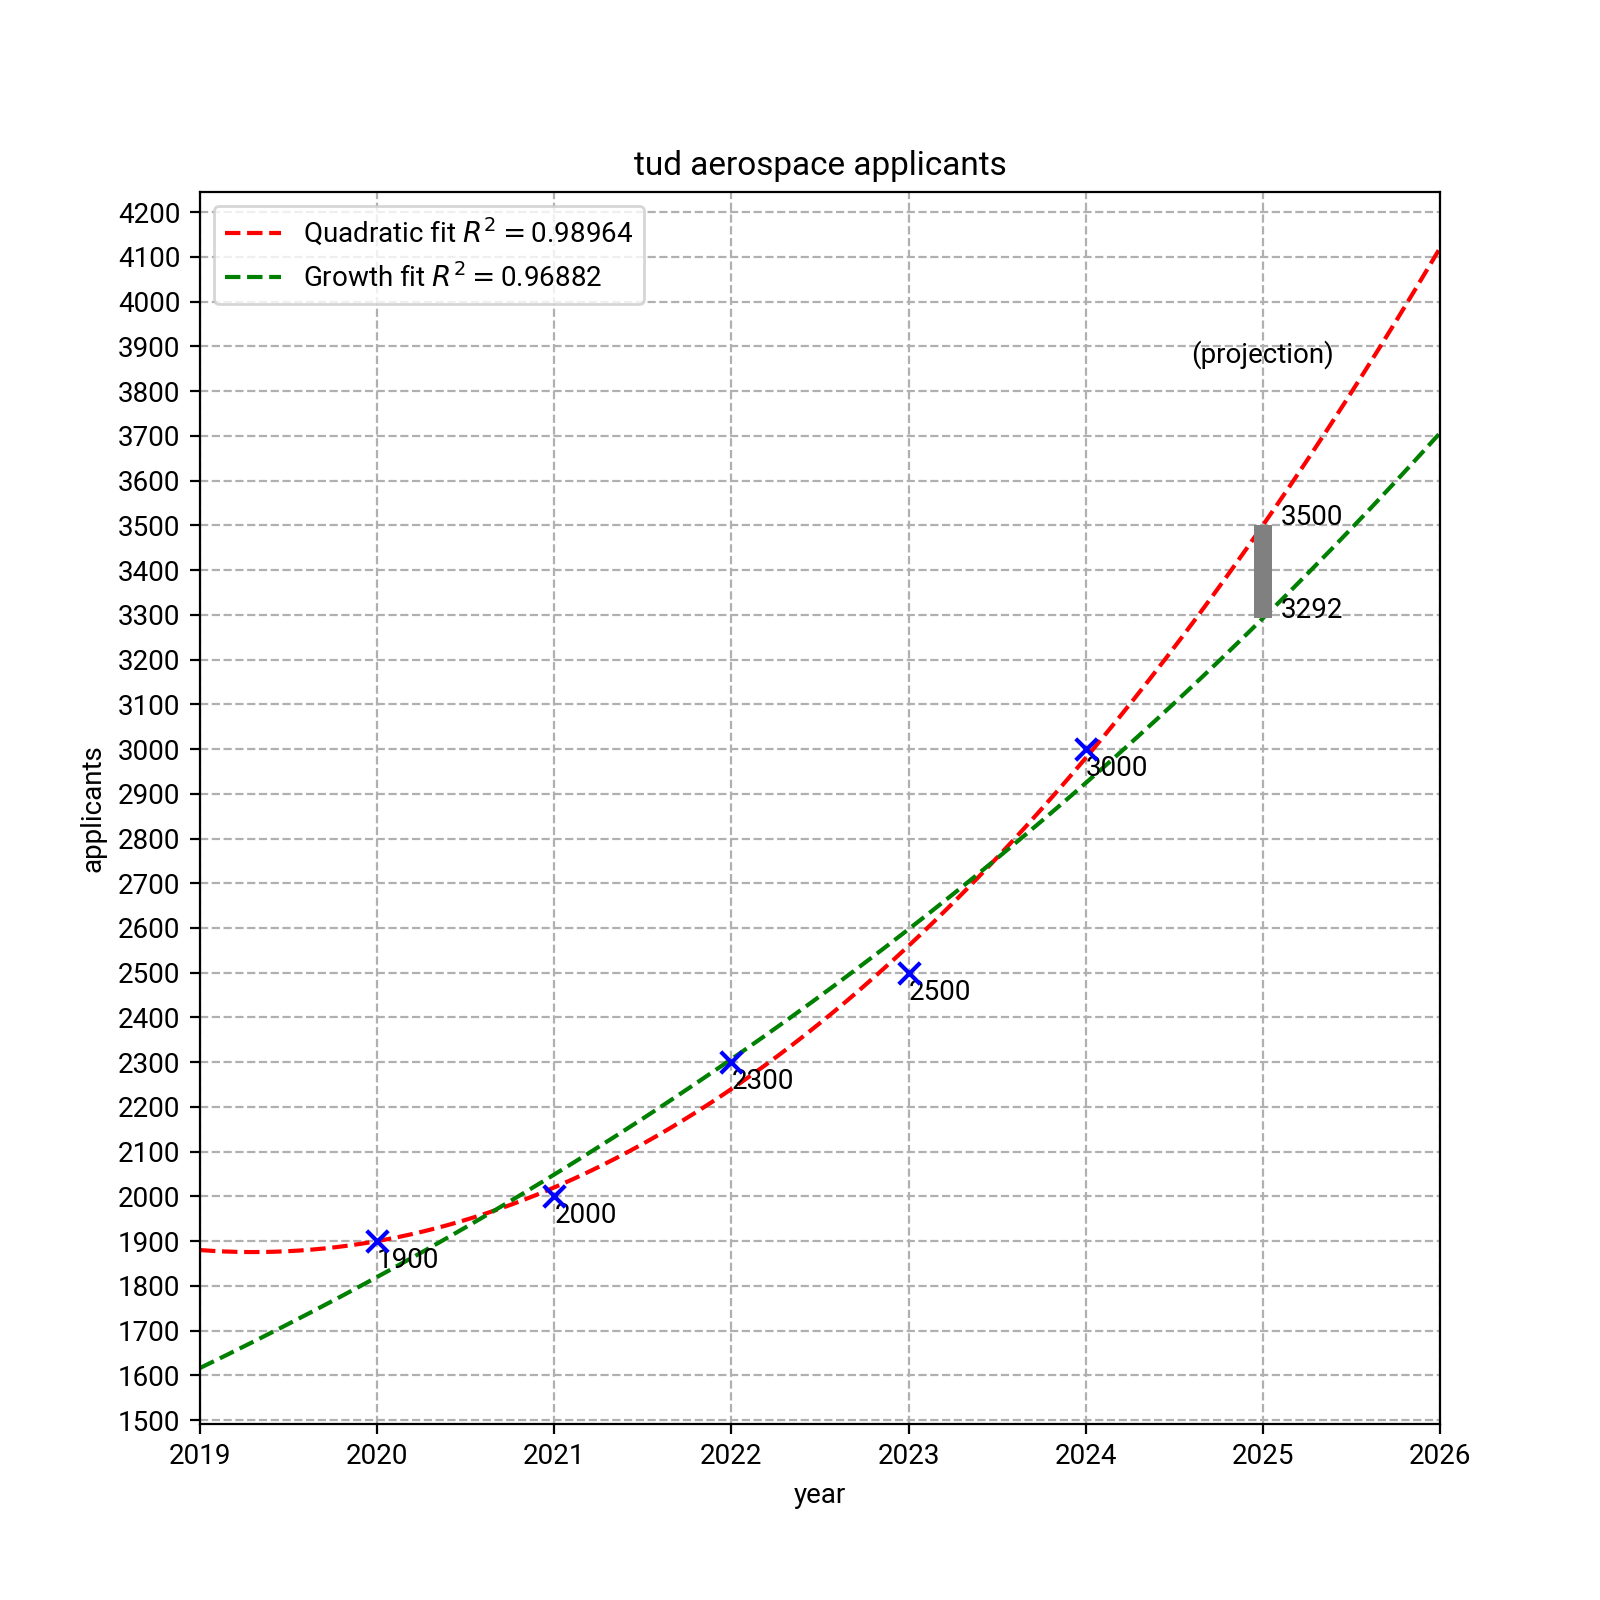
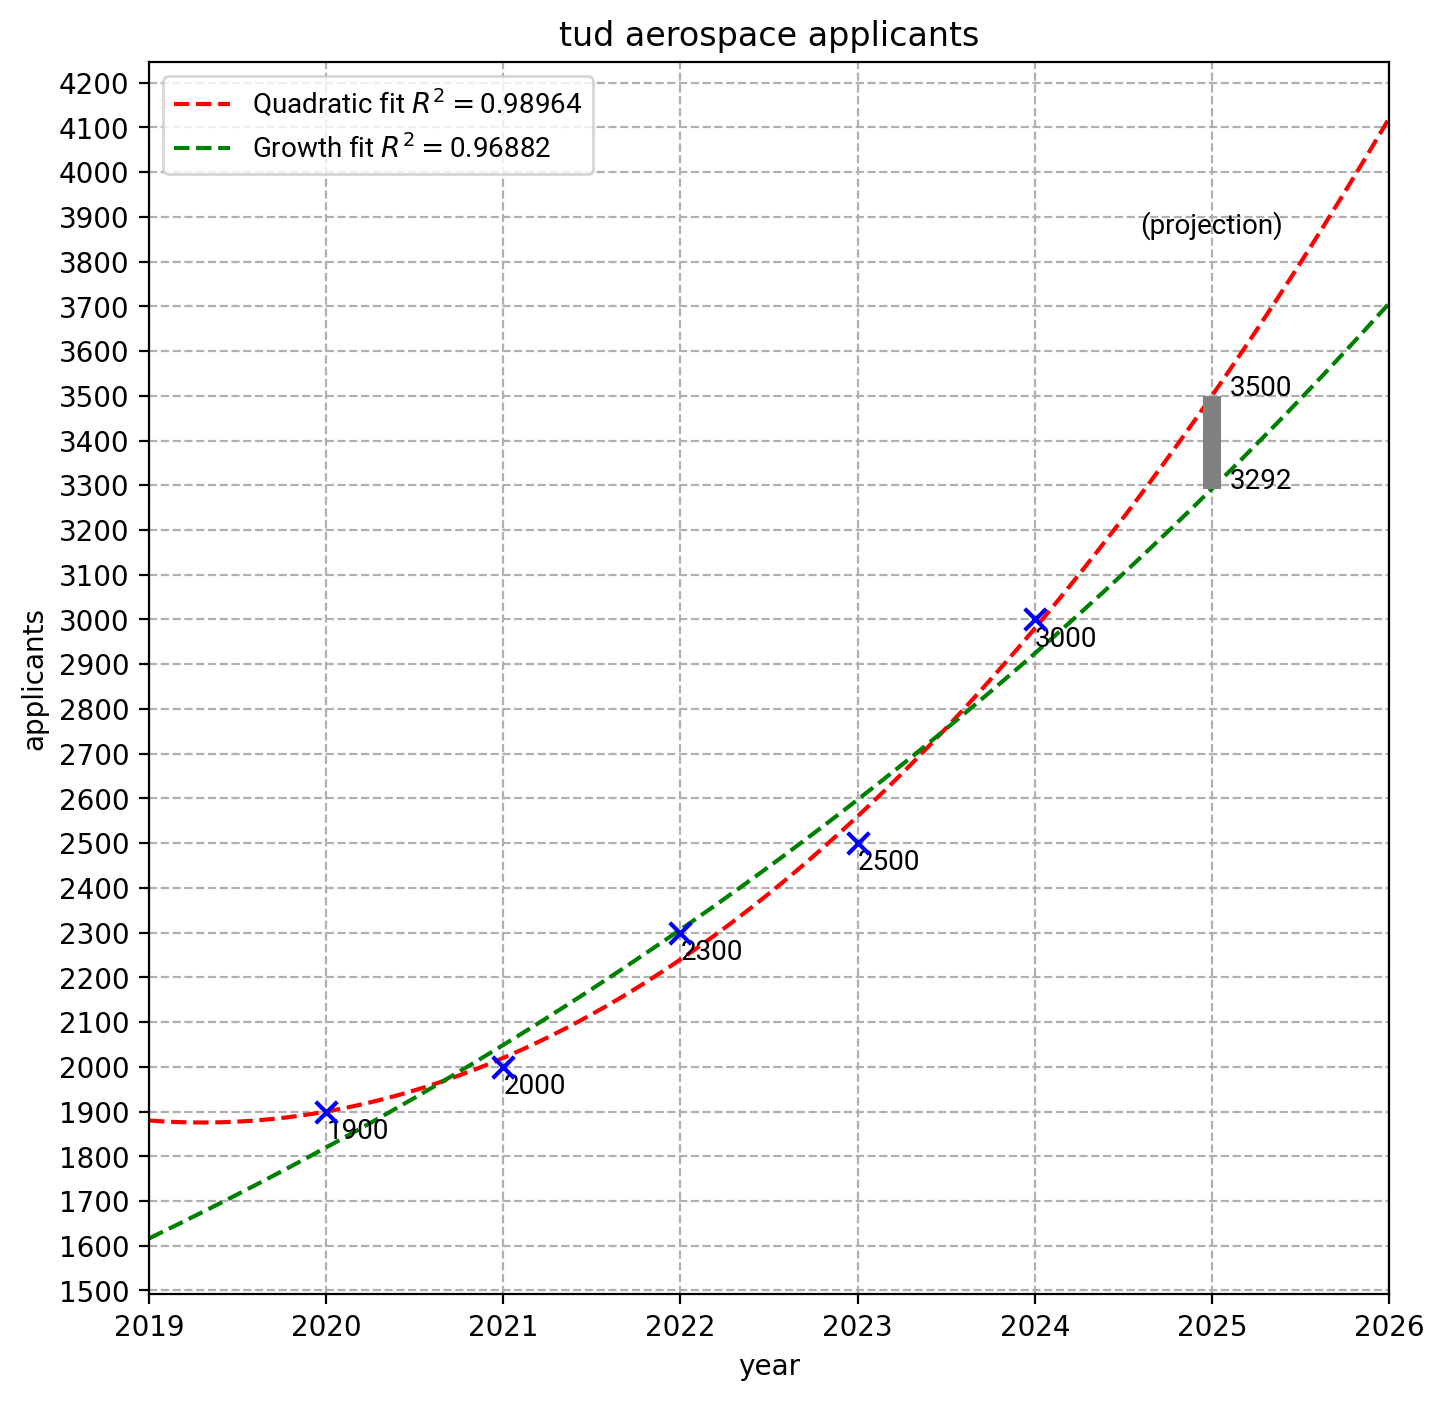
smaller margins on applicantcount

diff --git a/applicantcount/applicants.py b/applicantcount/applicants.py
@@ -154,4 +154,4 @@ plt.xlim(dataX[0]-1,dataX[-1]+2)
 plt.show()
 
 # %%
-fig.savefig("applicants.png")
+fig.savefig("applicants.png",bbox_inches='tight')

diff --git a/applicantcount/ranks.py b/applicantcount/ranks.py
@@ -158,3 +158,4 @@ plt.xlim(dataX[0]-1,dataX[-1]+2)
 plt.show()
 
 # %%
+fig.savefig("ranks.png",bbox_inches='tight')
